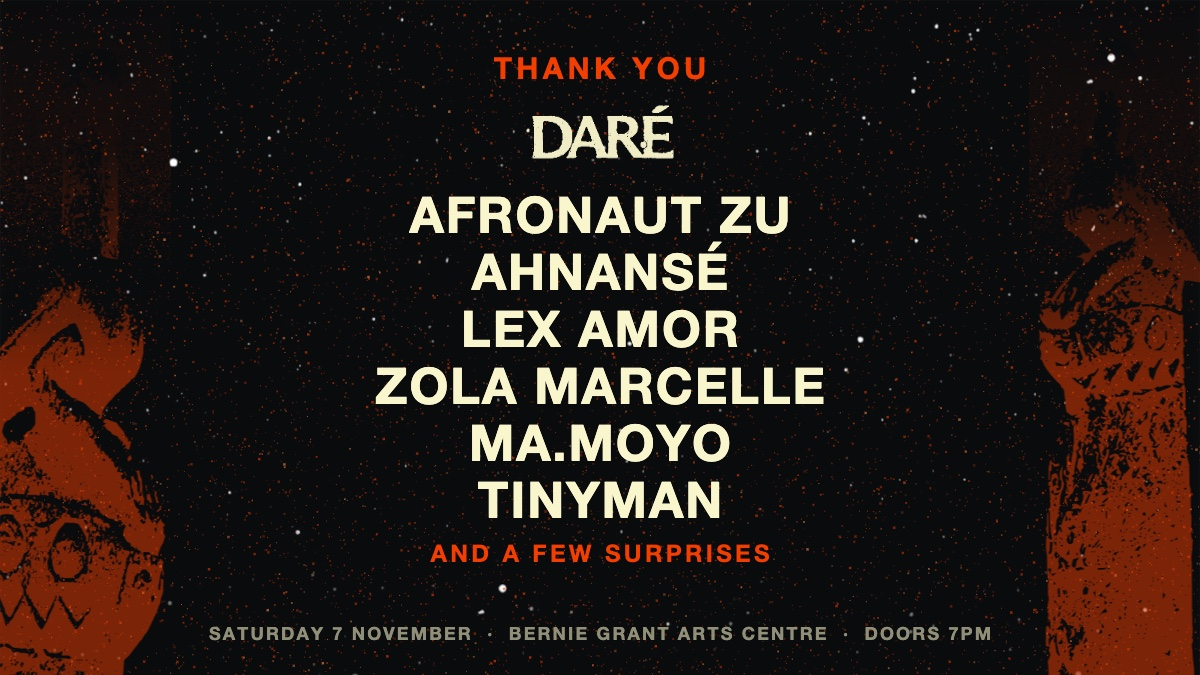
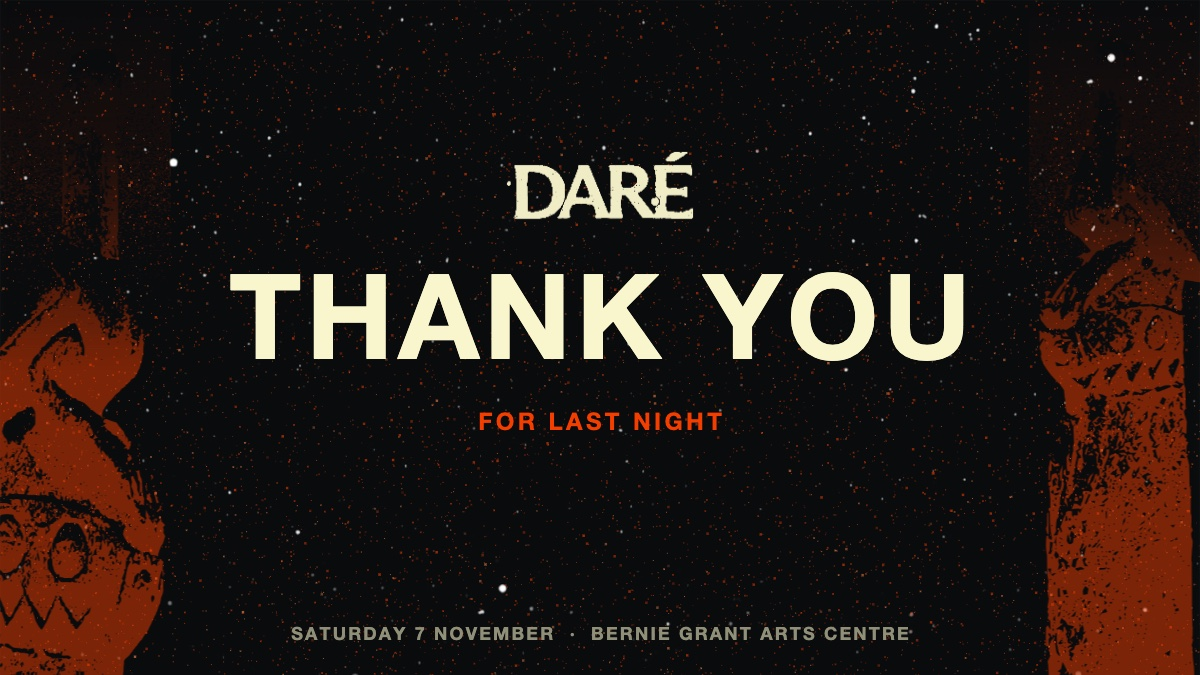
The thank-you header is only that: the wordmark, thank you, and where it was

diff --git a/assets/thanks-show-email.html b/assets/thanks-show-email.html
@@ -1,10 +1,9 @@
 <!doctype html>
 <!--
-  The header of the thank-you email after the show, drawn at 1200 by 675 and served as
-  public/thanks-show-email.jpg at 600 wide. The cast announcement's header
-  (cast-email.html) with two changes: it says THANK YOU instead of CAST
-  ANNOUNCEMENT, and TINYMAN is on the bill. Six names instead of five,
-  so the names are a little smaller to keep the footer clear.
+  The header of the thank-you email after the show, drawn at 1200 by 675 and
+  served as public/thanks-show-email.jpg at 600 wide. The same night as the
+  cast announcement's header (cast-email.html), the birds and the dust, but
+  no bill: the wordmark, THANK YOU, and where it was.
 
   To regenerate, serve the repository root and screenshot this page at
   1200 by 675 in headless Chrome, then write it as JPEG:
@@ -33,8 +32,6 @@
 <script>
 const P = { ground:'#0b0d0c', cream:'#f9f5cd', orange:'#f43e00', muted:'#908f78' };
 const FONT = "Figtree,'Helvetica Neue',Arial,sans-serif";
-const TITLE = 'THANK YOU';
-const CAST = ['Afronaut Zu', 'Ahnansé', 'Lex Amor', 'Zola Marcelle', 'MA.MOYO', 'Tinyman'];
 
 const ART = {};
 const load = (name, src) => new Promise((res) => { const i = new Image(); i.onload = () => { ART[name] = i; res(); }; i.onerror = () => { ART[name] = null; res(); }; i.src = src; });
@@ -79,21 +76,18 @@ function centreTracked(ctx, text, cx, y, tr) { fillTracked(ctx, text, cx - track
   f.globalCompositeOperation = 'destination-in'; f.fillStyle = g; f.fillRect(0, 0, W, H);
   ctx.globalAlpha = 0.5; ctx.drawImage(fig, 0, 0); ctx.globalAlpha = 1;
 
-  // the words
+  // the words: the wordmark, thank you, and where it was
   ctx.textBaseline = 'top';
-  ctx.fillStyle = P.orange; ctx.font = `800 30px ${FONT}`;
-  centreTracked(ctx, TITLE, W / 2, 54, 30 * 0.14);
-  if (ART.word) { const ww = 150, wh = ww * (ART.word.height / ART.word.width); drawArt(ctx, ART.word, W / 2 - ww / 2, 104, ww, wh, P.cream, 1); }
+  if (ART.word) { const ww = 190, wh = ww * (ART.word.height / ART.word.width); drawArt(ctx, ART.word, W / 2 - ww / 2, 150, ww, wh, P.cream, 1); }
 
-  ctx.fillStyle = P.cream;
-  const size = 50, gap = 57;
-  let y = 192;
-  for (const name of CAST) { ctx.font = `800 ${size}px ${FONT}`; centreTracked(ctx, name.toUpperCase(), W / 2, y, size * 0.04); y += gap; }
+  ctx.fillStyle = P.cream; ctx.font = `800 118px ${FONT}`;
+  centreTracked(ctx, 'THANK YOU', W / 2, 262, 118 * 0.04);
+
   ctx.fillStyle = P.orange; ctx.font = `600 24px ${FONT}`;
-  centreTracked(ctx, 'AND A FEW SURPRISES', W / 2, y + 8, 24 * 0.14);
+  centreTracked(ctx, 'FOR LAST NIGHT', W / 2, 410, 24 * 0.14);
 
   ctx.fillStyle = P.muted; ctx.font = `600 18px ${FONT}`;
-  centreTracked(ctx, 'SATURDAY 7 NOVEMBER  ·  BERNIE GRANT ARTS CENTRE  ·  DOORS 7PM', W / 2, H - 50, 18 * 0.12);
+  centreTracked(ctx, 'SATURDAY 7 NOVEMBER  ·  BERNIE GRANT ARTS CENTRE', W / 2, H - 50, 18 * 0.12);
 
   window.done = true;
 })();

diff --git a/assets/emails/thanks-show.html b/assets/emails/thanks-show.html
@@ -44,7 +44,7 @@
   <!-- The header -->
   <tr><td align="center" class="pic" style="padding:0; background-color:#0b0d0c;">
     <a href="https://ancestralfutures.co.uk" target="_blank"><img src="https://ancestralfutures.co.uk/thanks-show-email.jpg" width="600" height="338"
-      alt="Thank you. DAR&Eacute;. Afronaut Zu, Ahnans&eacute;, Lex Amor, Zola Marcelle, MA.MOYO, TINYMAN, and a few surprises. Saturday 7 November, Bernie Grant Arts Centre."
+      alt="DAR&Eacute;. Thank you for last night. Saturday 7 November, Bernie Grant Arts Centre."
       style="display:block; width:600px; max-width:100%; height:auto; border:0;"></a>
   </td></tr>
 
